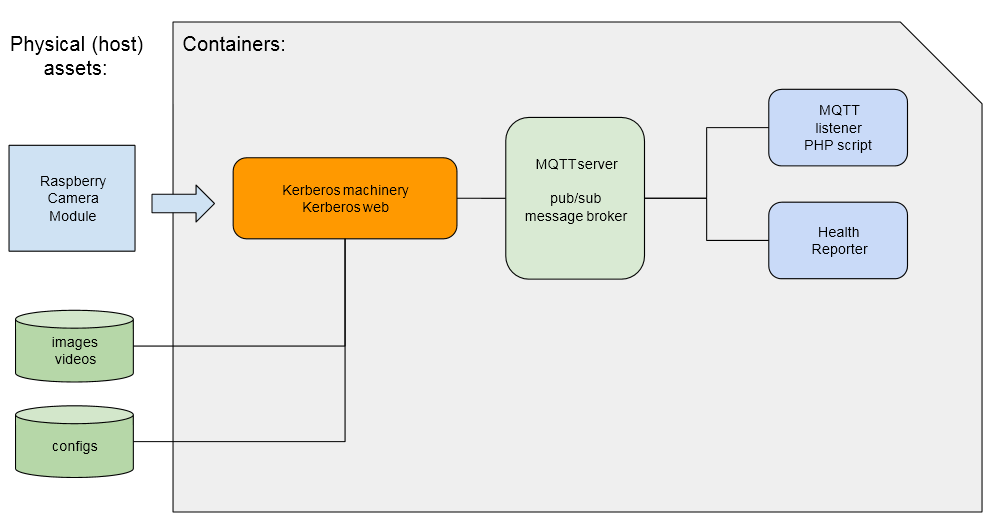
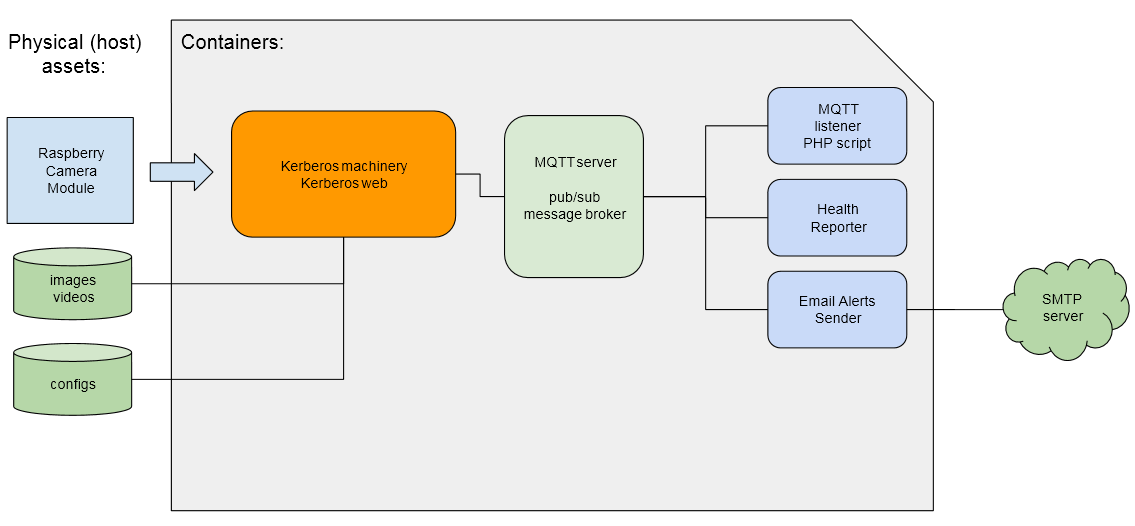
flowchart image updated refactoring

diff --git a/mqtt-listener-mailer-php/code/queue-processor.php b/mqtt-listener-mailer-php/code/queue-processor.php
@@ -59,18 +59,19 @@ while (($queueItemFileName = readdir($dirHandle)) !== false) {
     $queueItemData = json_decode($queueItemData);
     //@TODO add data validation here
     $imageFileName = $queueItemData->payload->pathToImage;
-    $imageFullPath = $pathToCapturedImages . "/" . $imageFileName;
+    if (!empty($imageFileName)) {
 
-    $htmlBody .= "
-        <li>" . $imageFileName . "
-    ";
+        $imageFullPath = $pathToCapturedImages . "/" . $imageFileName;
 
-    //@TODO resize images to cut the email size
-    //@TODO do not include images that are created shortly one after other
+        $htmlBody .= "<li>" . $imageFileName . "";
 
-    //register an attachment for inclusion
-    $fileListToAttach[] = $imageFullPath;
+        //@TODO resize images to cut the email size
+        //@TODO do not include images that are created shortly one after other
 
+        //register an attachment for inclusion
+        $fileListToAttach[] = $imageFullPath;
+
+    }
     //remember that this queue item was processed
     $queueProcessedFilesList[] = $queueItemFileName;
 
